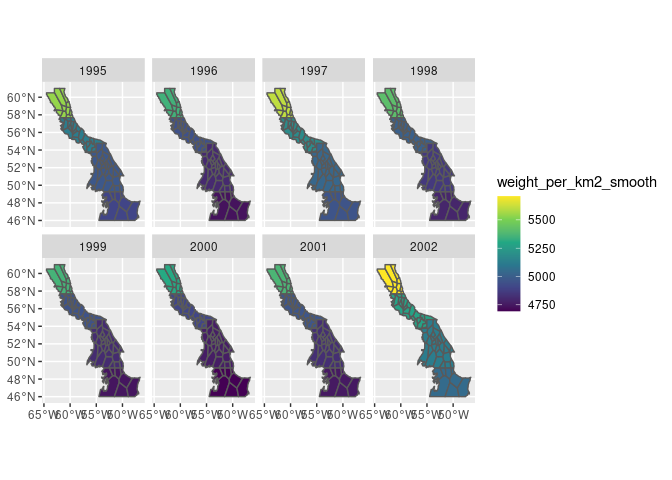
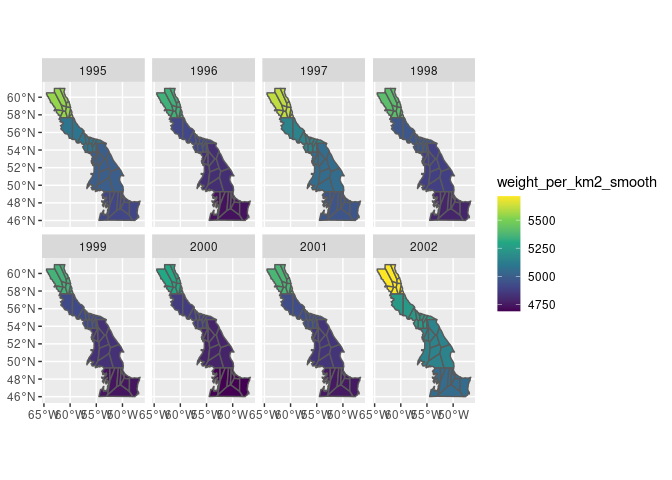
fully update readme

diff --git a/README.md b/README.md
@@ -49,7 +49,7 @@ Let’s first load the packages and the test data.
 ``` r
 library(sspm)
 #> Loading required package: sf
-#> Linking to GEOS 3.8.1, GDAL 3.1.3, PROJ 7.1.0
+#> Linking to GEOS 3.9.0, GDAL 3.2.2, PROJ 7.2.1
 #> Loading required package: mgcv
 #> Loading required package: nlme
 #> This is mgcv 1.8-36. For overview type 'help("mgcv-package")'.
@@ -101,7 +101,8 @@ biomass_dataset
 #> →  Coordinates cols. : lon_dec, lat_dec
 ```
 
-3.  We do the same with the predator and catch data.
+3.  We do the same with the predator data, which are of the predictor
+    type.
 
 ``` r
 predator_dataset <- 
@@ -118,21 +119,6 @@ predator_dataset
 #> →  Data unique ID    : uniqueID
 #> →  Time col.         : year
 #> →  Coordinates cols. : lon_dec, lat_dec
-
-catch_dataset <- 
-  spm_as_dataset(catch, name = "catch_data", 
-                 type = "catch", time_column = "year_f", 
-                 uniqueID = "uniqueID", coords = c("lon_start", "lat_start"))
-#> ℹ  Casting data matrix into simple feature collection using columns: lon_start, lat_start
-#> !  Warning: sspm is assuming WGS 84 CRS is to be used for casting
-
-catch_dataset
-#> 
-#> ‒‒ SSPM Dataset: catch_data (catch) ‒‒
-#> →  Data              : [88579 observations, 8 variables]
-#> →  Data unique ID    : uniqueID
-#> →  Time col.         : year_f
-#> →  Coordinates cols. : lon_start, lat_start
 ```
 
 4.  The `sspm` workflow relies on the discretization of the boundary
@@ -142,18 +128,20 @@ catch_dataset
 
 ``` r
 bounds_voronoi <- bounds %>% 
-  spm_discretize(with = biomass_dataset, 
-                 method = "tesselate_voronoi")
+  spm_discretize(method = "tesselate_voronoi",
+                 with = biomass_dataset, 
+                 nb_samples = 10)
 #> ℹ  Discretizing using method tesselate_voronoi
 
 bounds_voronoi
 #> 
 #> ‒‒ SSPM Boundary (Discrete) ‒‒
-#> →  Boundaries    : [4 observations, 2 variables]
+#> →  Boundaries    : [4 observations, 3 variables]
 #> →  Boundary col. : sfa
+#> →  Surface col.  : area
 #> →  Discretized   : 
-#>    ٭ Points — [75 features, 19 variables]
-#>    ٭ Patches — [69 features, 4 variables]
+#>    ٭ Points — [40 features, 20 variables]
+#>    ٭ Patches — [38 features, 4 variables]
 ```
 
 5.  Plotting the object shows the polygons that have been created.
@@ -169,49 +157,49 @@ spm_plot(bounds_voronoi)
 
 ``` r
 spm_patches(bounds_voronoi)
-#> Simple feature collection with 69 features and 3 fields
-#> Geometry type: POLYGON
+#> Simple feature collection with 38 features and 3 fields
+#> Geometry type: GEOMETRY
 #> Dimension:     XY
 #> Bounding box:  xmin: -64.5 ymin: 46.00004 xmax: -46.6269 ymax: 61
 #> Geodetic CRS:  WGS 84
-#> # A tibble: 69 x 4
-#>    sfa   patch_id                                              geometry area_km2
-#>  * <chr> <fct>                                            <POLYGON [°]>    <dbl>
-#>  1 4     V1       ((-64.4227 60.27125, -64.5 60.30667, -64.5 60.31667,…   20236.
-#>  2 4     V2       ((-63 60.55308, -63 61, -62.96667 61, -62.93333 61, …   14675.
-#>  3 4     V3       ((-59.91648 58.8388, -59.9052 58.80785, -59.9468 58.…    4127.
-#>  4 4     V4       ((-59.88688 57.66667, -59.9 57.66667, -59.93333 57.6…    2742.
-#>  5 4     V5       ((-62.00478 61, -62 61, -61.96667 61, -61.93333 61, …    5560.
-#>  6 4     V6       ((-59.95436 58.6478, -59.9052 58.61004, -59.79427 58…    1515.
-#>  7 4     V7       ((-61.86024 57.86301, -61.86024 57.87204, -61.94343 …    3819.
-#>  8 4     V8       ((-61.37285 57.66667, -61.4 57.66667, -61.43333 57.6…    4376.
-#>  9 4     V9       ((-61.36857 58.4628, -61.66155 59.11637, -60.6936 58…    2702.
-#> 10 4     V10      ((-60.25027 59.52148, -60.18251 59.45455, -60.16864 …    2445.
-#> # … with 59 more rows
+#> # A tibble: 38 x 4
+#>    sfa   patch_id                                              geometry     area
+#>  * <chr> <fct>                                            <POLYGON [°]>   [km^2]
+#>  1 4     V1       ((-64.42169 60.27125, -64.42 60.27206, -64.41666 60.… 20367.3…
+#>  2 4     V2       ((-59.95566 58.64882, -60.25261 57.73692, -59.67678 …  1718.5…
+#>  3 4     V3       ((-61.89804 57.6918, -61.34602 58.43681, -61.36857 5…  3882.6…
+#>  4 4     V4       ((-60.50931 57.66667, -60.87958 58.41518, -61.34602 …  4684.4…
+#>  5 4     V5       ((-61.34602 58.43681, -60.87958 58.41518, -60.68359 …  2687.3…
+#>  6 4     V6       ((-63 60.62184, -61.66155 59.11637, -60.6936 58.9027… 14504.2…
+#>  7 4     V7       ((-60.26194 59.52858, -60.73068 59.34113, -60.6936 5…  2449.3…
+#>  8 4     V8       ((-59.91649 58.83888, -60.68359 58.8793, -60.87958 5…  6258.8…
+#>  9 4     V9       ((-61.96379 61, -60.73068 59.34113, -60.26194 59.528…  5308.1…
+#> 10 5     V10      ((-59.55703 55.21506, -59.53354 57.66667, -59.56667 … 27939.6…
+#> # … with 28 more rows
 spm_points(bounds_voronoi)
-#> Simple feature collection with 75 features and 18 fields
+#> Simple feature collection with 40 features and 19 fields
 #> Geometry type: POINT
 #> Dimension:     XY
-#> Bounding box:  xmin: -61.77175 ymin: 46.37211 xmax: -48.19061 ymax: 59.70288
+#> Bounding box:  xmin: -61.77175 ymin: 46.16256 xmax: -48.20016 ymax: 59.70288
 #> Geodetic CRS:  WGS 84
-#> # A tibble: 75 x 19
+#> # A tibble: 40 x 20
 #> # Groups:   sfa [4]
 #>     year vessel  trip div_nafo season area_swept_km2 year_f n_samples lon_dec
 #>  * <dbl>  <dbl> <dbl> <chr>    <chr>           <dbl> <fct>      <dbl>   <dbl>
-#>  1  1995     39    21 3K       Fall           0.0250 1995           5   -56.4
-#>  2  1996     39    37 2G       Fall           0.0250 1996           5   -53.0
-#>  3  1996     39    37 2G       Fall           0.0250 1996           5   -61.8
-#>  4  1998     39    73 2H       Fall           0.0250 1998           5   -56.1
-#>  5  1998     39    73 2J       Fall           0.0343 1998           5   -53.2
-#>  6  1998     39    76 3L       Fall           0.0250 1998           5   -53.7
-#>  7  1999     39    86 2J       Fall           0.0281 1999           5   -57.8
-#>  8  1999     39    88 3K       Fall           0.0250 1999           5   -53.6
-#>  9  2011     39    98 3K       Fall           0.0281 2011           5   -61.2
-#> 10  2006     48   101 2G       Summer         0.0281 2006           5   -56.1
-#> # … with 65 more rows, and 10 more variables: lat_dec <dbl>, depth <dbl>,
+#>  1  1995     39    23 2J       Fall           0.0250 1995           5   -51.9
+#>  2  1996     39    37 2G       Fall           0.0250 1996           5   -61.8
+#>  3  2011     39    95 2J       Fall           0.0250 2011           5   -49.1
+#>  4  2011     39    97 2J       Fall           0.0187 2011           5   -53.7
+#>  5  2011     39    98 3K       Fall           0.0281 2011           5   -61.2
+#>  6  2006     48   101 2G       Summer         0.0187 2006           5   -57.1
+#>  7  2009     48   104 2G       Summer         0.0156 2009           5   -61.3
+#>  8  2012     39   107 2H       Fall           0.0187 2012           5   -56.3
+#>  9  2012     39   109 3K       Fall           0.0218 2012           5   -50.0
+#> 10  2014     63   109 2G       Summer         0.0281 2014           5   -55.4
+#> # … with 30 more rows, and 11 more variables: lat_dec <dbl>, depth <dbl>,
 #> #   temp_at_bottom <dbl>, weight <dbl>, weight_per_km2 <dbl>,
 #> #   recruit_weight <dbl>, row <int>, uniqueID <chr>, geometry <POINT [°]>,
-#> #   sfa <chr>
+#> #   sfa <chr>, area [km^2]
 ```
 
 7.  The next step in this workflow is to smooth the variables to be used
@@ -234,15 +222,15 @@ biomass_smooth <- biomass_dataset %>%
 biomass_smooth
 #> 
 #> ‒‒ SSPM Dataset: borealis (biomass) ‒‒
-#> →  Data (MAPPED)     : [1026 observations, 21 variables]
+#> →  Data (MAPPED)     : [1025 observations, 21 variables]
 #> →  Data unique ID    : uniqueID
 #> →  Time col.         : year_f
 #> →  Coordinates cols. : lon_dec, lat_dec
 #> →  Formulas          : 
 #>       – weight_per_km2 ~ sfa + smooth_time(k = 3) + smooth_space()
 #>       – temp_at_bottom ~ smooth_time(k = 2) + smooth_space()
-#> →  Boundaries        : [4 observations, 2 variables]
-#> →  Smoothed Data     : [1656 observations, 8 variables]
+#> →  Boundaries        : [4 observations, 3 variables]
+#> →  Smoothed Data     : [912 observations, 8 variables]
 #>    ٭ smoothed vars: temp_at_bottom_smooth — weight_per_km2_smooth
 ```
 
@@ -267,39 +255,82 @@ predator_smooth <- predator_dataset %>%
 predator_smooth
 #> 
 #> ‒‒ SSPM Dataset: all_predators (predictor) ‒‒
-#> →  Data (MAPPED)     : [1979 observations, 18 variables]
+#> →  Data (MAPPED)     : [1964 observations, 18 variables]
 #> →  Data unique ID    : uniqueID
 #> →  Time col.         : year
 #> →  Coordinates cols. : lon_dec, lat_dec
 #> →  Formulas          : 
 #>       – weight_per_km2 ~ smooth_time(k = 3) + smooth_space()
-#> →  Boundaries        : [4 observations, 2 variables]
-#> →  Smoothed Data     : [1656 observations, 7 variables]
+#> →  Boundaries        : [4 observations, 3 variables]
+#> →  Smoothed Data     : [912 observations, 7 variables]
 #>    ٭ smoothed vars: weight_per_km2_smooth
 ```
 
-10. Once data has been smoothed, we can assemble a `sspm` model object,
+10. Before we assemble the full model with our newly smoothed data, we
+    need to deal with the catch data. We first load the dataset.
+
+``` r
+catch_dataset <- 
+  spm_as_dataset(catch, name = "catch_data", 
+                 type = "catch", time_column = "year_f", 
+                 uniqueID = "uniqueID", coords = c("lon_start", "lat_start"))
+#> ℹ  Casting data matrix into simple feature collection using columns: lon_start, lat_start
+#> !  Warning: sspm is assuming WGS 84 CRS is to be used for casting
+
+catch_dataset
+#> 
+#> ‒‒ SSPM Dataset: catch_data (catch) ‒‒
+#> →  Data              : [88579 observations, 8 variables]
+#> →  Data unique ID    : uniqueID
+#> →  Time col.         : year_f
+#> →  Coordinates cols. : lon_start, lat_start
+```
+
+11. We then need to aggregate this data. This illustrate using the
+    `spm_aggregate` functions. Here we use `spm_aggregate_catch`:
+
+``` r
+biomass_smooth_w_catch <- 
+  spm_aggregate_catch(biomass = biomass_smooth, 
+                      catch = catch_dataset, 
+                      biomass_variable = "weight_per_km2_smooth",
+                      catch_variable = "catch",
+                      fill = mean)
+#> ℹ  Offsetting biomass with catch data using columns: weight_per_km2_smooth, catch
+biomass_smooth_w_catch
+#> 
+#> ‒‒ SSPM Dataset: borealis (biomass) ‒‒
+#> →  Data (MAPPED)     : [1025 observations, 21 variables]
+#> →  Data unique ID    : uniqueID
+#> →  Time col.         : year_f
+#> →  Coordinates cols. : lon_dec, lat_dec
+#> →  Formulas          : 
+#>       – weight_per_km2 ~ sfa + smooth_time(k = 3) + smooth_space()
+#>       – temp_at_bottom ~ smooth_time(k = 2) + smooth_space()
+#> →  Boundaries        : [4 observations, 3 variables]
+#> →  Smoothed Data     : [912 observations, 12 variables]
+#>    ٭ smoothed vars: temp_at_bottom_smooth — weight_per_km2_smooth
+#>    ٭ vars with catch: weight_per_km2_smooth_borealis_with_catch — weight_per_km2_smooth_borealis_with_catch_change
+```
+
+12. Once data has been smoothed, we can assemble a `sspm` model object,
     using one dataset of type biomass, one dataset of type predictor and
     (optionnaly) a dataset of type catch. If we want to use a
 
 ``` r
-sspm_model <- sspm(biomass = biomass_smooth, 
-                   predictors = predator_smooth, 
-                   catch = catch_dataset, 
-                   catch_var = "catch", 
-                   biomass_var = "weight_per_km2_smooth_borealis")
+sspm_model <- sspm(biomass = biomass_smooth_w_catch, 
+                   predictors = predator_smooth)
 #> ℹ  Joining smoothed data from all datasets
-#> ℹ  Offsetting biomass with catch data using columns: weight_per_km2_smooth_borealis, catch
 
 sspm_model
 #> 
-#> ‒‒ SSPM Model (3 datasets) ‒‒
-#> →  Smoothed Data     : [1656 observations, 12 variables]
+#> ‒‒ SSPM Model (2 datasets) ‒‒
+#> →  Smoothed Data     : [912 observations, 13 variables]
 #>    ٭ smoothed vars: temp_at_bottom_smooth — weight_per_km2_smooth_all_predators — weight_per_km2_smooth_borealis
-#>    ٭ vars with catch: weight_per_km2_smooth_borealis_with_catch
+#>    ٭ vars with catch: weight_per_km2_smooth_borealis_with_catch — weight_per_km2_smooth_borealis_with_catch_change
 ```
 
-11. Before fitting the model, we must split data into test/train with
+13. Before fitting the model, we must split data into test/train with
     `spm_split`.
 
 ``` r
@@ -308,78 +339,84 @@ sspm_model <- sspm_model %>%
 
 sspm_model
 #> 
-#> ‒‒ SSPM Model (3 datasets) ‒‒
-#> →  Smoothed Data     : [1656 observations, 13 variables] / [1587 train, 69 test]
+#> ‒‒ SSPM Model (2 datasets) ‒‒
+#> →  Smoothed Data     : [912 observations, 14 variables] / [874 train, 38 test]
 #>    ٭ smoothed vars: temp_at_bottom_smooth — weight_per_km2_smooth_all_predators — weight_per_km2_smooth_borealis
-#>    ٭ vars with catch: weight_per_km2_smooth_borealis_with_catch
+#>    ٭ vars with catch: weight_per_km2_smooth_borealis_with_catch — weight_per_km2_smooth_borealis_with_catch_change
 ```
 
-12. To fit the model, we might be interested in including lagged values.
+14. To fit the model, we might be interested in including lagged values.
     This is done with `spm_lag`.
 
 ``` r
 sspm_model <- sspm_model %>% 
-  spm_lag(vars = c("weight_per_km2_smooth_borealis_with_catch", "weight_per_km2_smooth_all_predators"), 
+  spm_lag(vars = c("weight_per_km2_smooth_borealis_with_catch", 
+                   "weight_per_km2_smooth_all_predators"), 
           n = 1)
 
 sspm_model
 #> 
-#> ‒‒ SSPM Model (3 datasets) ‒‒
-#> →  Smoothed Data     : [1656 observations, 15 variables] / [1587 train, 69 test]
+#> ‒‒ SSPM Model (2 datasets) ‒‒
+#> →  Smoothed Data     : [912 observations, 16 variables] / [874 train, 38 test]
 #>    ٭ smoothed vars: temp_at_bottom_smooth — weight_per_km2_smooth_all_predators — weight_per_km2_smooth_borealis
-#>    ٭ vars with catch: weight_per_km2_smooth_borealis_with_catch — weight_per_km2_smooth_borealis_with_catch_lag_1
+#>    ٭ vars with catch: weight_per_km2_smooth_borealis_with_catch — weight_per_km2_smooth_borealis_with_catch_change — weight_per_km2_smooth_borealis_with_catch_lag_1
 #>    ٭ lagged vars: weight_per_km2_smooth_all_predators_lag_1 — weight_per_km2_smooth_borealis_with_catch_lag_1
 ```
 
-13. We can now fit the final spm model with `spm`.
+15. We can now fit the final spm model with `spm`.
 
 ``` r
 sspm_model_fit <- sspm_model %>% 
-  spm(weight_per_km2_smooth_borealis_with_catch ~ temp_at_bottom_smooth + 
-        weight_per_km2_smooth_all_predators_lag_1 + smooth_lag("weight_per_km2_smooth_borealis_with_catch"))
-#> ℹ  Fitting SPM formula: weight_per_km2_smooth_borealis_with_catch ~ temp_at_bottom_smooth + weight_per_km2_smooth_all_predators_lag_1 + smooth_lag('weight_per_km2_smooth_borealis_with_catch')
+  spm(weight_per_km2_smooth_borealis_with_catch ~ 
+        weight_per_km2_smooth_borealis_with_catch_lag_1 +
+        weight_per_km2_smooth_all_predators_lag_1 +
+        smooth_lag("weight_per_km2_smooth_borealis_with_catch") + 
+        temp_at_bottom_smooth)
+#> ℹ  Fitting SPM formula: weight_per_km2_smooth_borealis_with_catch ~ weight_per_km2_smooth_borealis_with_catch_lag_1 + weight_per_km2_smooth_all_predators_lag_1 + smooth_lag('weight_per_km2_smooth_borealis_with_catch') + temp_at_bottom_smooth
 
 sspm_model_fit
 #> 
 #> ‒‒ SSPM Model Fit ‒‒
-#> →  Smoothed Data     : [1656 observations, 15 variables] / [1587 train, 69 test]
+#> →  Smoothed Data     : [912 observations, 16 variables] / [874 train, 38 test]
 #> →  Fit summary       : 
 #> 
-#> Family: Scaled t(3.067,0.017) 
+#> Family: Scaled t(3,7.169) 
 #> Link function: identity 
 #> 
 #> Formula:
-#> weight_per_km2_smooth_borealis_with_catch ~ temp_at_bottom_smooth + 
-#>     weight_per_km2_smooth_all_predators_lag_1 + s(lag_matrix, 
-#>     k = 5, m = 1, by = by_matrix)
+#> weight_per_km2_smooth_borealis_with_catch ~ weight_per_km2_smooth_borealis_with_catch_lag_1 + 
+#>     weight_per_km2_smooth_all_predators_lag_1 + temp_at_bottom_smooth + 
+#>     s(lag_matrix, k = 5, m = 1, by = by_matrix)
 #> 
 #> Parametric coefficients:
-#>                                             Estimate Std. Error t value
-#> (Intercept)                               -1.066e-01  4.652e-02  -2.291
-#> temp_at_bottom_smooth                      5.477e-03  1.065e-03   5.142
-#> weight_per_km2_smooth_all_predators_lag_1  2.177e-05  1.003e-05   2.171
-#>                                           Pr(>|t|)    
-#> (Intercept)                                 0.0221 *  
-#> temp_at_bottom_smooth                     3.05e-07 ***
-#> weight_per_km2_smooth_all_predators_lag_1   0.0301 *  
+#>                                                  Estimate Std. Error t value
+#> (Intercept)                                     45.116139  18.197986   2.479
+#> weight_per_km2_smooth_borealis_with_catch_lag_1  0.929307   0.010754  86.416
+#> weight_per_km2_smooth_all_predators_lag_1       -0.009854   0.003804  -2.591
+#> temp_at_bottom_smooth                            0.828527   0.775080   1.069
+#>                                                 Pr(>|t|)    
+#> (Intercept)                                      0.01336 *  
+#> weight_per_km2_smooth_borealis_with_catch_lag_1  < 2e-16 ***
+#> weight_per_km2_smooth_all_predators_lag_1        0.00974 ** 
+#> temp_at_bottom_smooth                            0.28539    
 #> ---
 #> Signif. codes:  0 '***' 0.001 '**' 0.01 '*' 0.05 '.' 0.1 ' ' 1
 #> 
 #> Approximate significance of smooth terms:
-#>                           edf Ref.df   F p-value    
-#> s(lag_matrix):by_matrix 4.982      5 314  <2e-16 ***
+#>                            edf Ref.df     F p-value  
+#> s(lag_matrix):by_matrix 0.8385      5 1.027  0.0135 *
 #> ---
 #> Signif. codes:  0 '***' 0.001 '**' 0.01 '*' 0.05 '.' 0.1 ' ' 1
 #> 
-#> R-sq.(adj) =  0.261   Deviance explained = 36.2%
-#> -REML = 2296.2  Scale est. = 1         n = 1587
+#> R-sq.(adj) =  0.855   Deviance explained = 70.8%
+#> -REML = 1190.2  Scale est. = 1         n = 874
 ```
 
-14. Plotting the object produces a actual vs predicted plot (with
+16. Plotting the object produces a actual vs predicted plot (with
     TEST/TRAIN data highlighted.
 
 ``` r
 spm_plot(sspm_model_fit)
 ```
 
-<img src="man/figures/README-unnamed-chunk-16-1.png" width="100%" />
+<img src="man/figures/README-unnamed-chunk-18-1.png" width="100%" />
